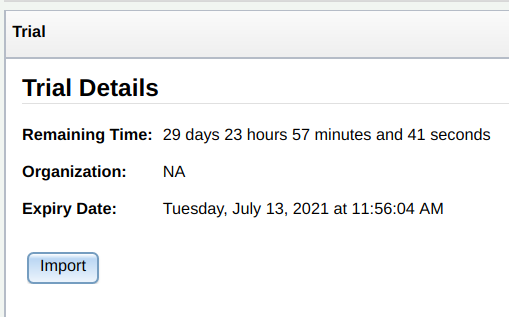
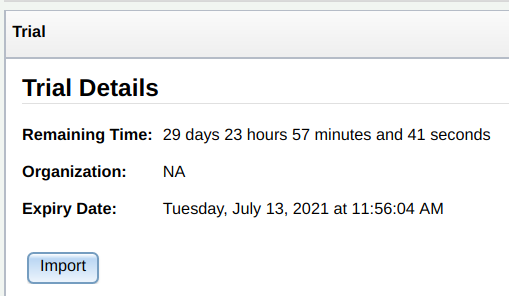
New article, draft.

diff --git a/drafts/2021-06-13-certificados-criptograficos.md b/drafts/2021-06-13-certificados-criptograficos.md
@@ -2,7 +2,7 @@
 title: Certificados criptográficos. Hecho a mano.
 layout: post
 assets: /assets/2021/06/certificados-criptograficos
-image: /assets/2021/06/certificados-criptograficos/img/trialdays_30.png
+image: /assets/2021/06/certificados-criptograficos/img/trialdays.png
 featured: false
 tags:
   - Binario
@@ -142,7 +142,7 @@ Lo primero que haremos será aprender a validar la firma a mano.
 
 ## Validar la firma a mano
 
-¿Qué es una firma electrónica? Una firma es un **hash cifrado** con una clave privada. Sólo eso. Claro que el hash no va desnudo sino dentro de una estructura ASN.1 indicando de qué tipo es. Y la estructura tampoco se cifra sola sino acompañada de un padding. Ahora lo veremos.
+¿Qué es una firma electrónica? Una firma es un **hash, cifrado** con una clave privada. Sólo eso. Claro que el hash no va desnudo sino dentro de una estructura ASN.1 indicando de qué tipo es. Y la estructura tampoco se cifra sola sino acompañada de un padding. Ahora lo veremos.
 
 Convertimos el certificado de Base64 (PEM) a binario (DER) para trabajar más fácilmente.
 
@@ -211,7 +211,7 @@ Se cifra una estructura ASN.1 que se interpreta así:
 
 30 21     <- secuencia con logitud 0x21 bytes
   30 09   <- primer campo: secuencia de 9 bytes
-    06 05 <- primer campo: identificador IOD, 5 bytes
+    06 05 <- primer campo: identificador OID, 5 bytes
       2b 0e 03 02 1a  <- OID de SHA1
     05 00 <- segundo campo: null de tamaño 0
   04 14   <- segundo campo: cadena de octetos, 20 bytes
@@ -610,7 +610,7 @@ OpenSSL es una herramienta muy versátil y compleja. Puedes pasar años usando a
 
 ## Enlaces
 
-Algunos fallos de OpenSSL con repercusión masiva:
+Algunos fallos de OpenSSL con repercusión masiva en su día:
 
 - [Anatomy of a “goto fail” – Apple’s SSL bug explained, plus an unofficial patch for OS X! - sophos.com](https://nakedsecurity.sophos.com/2014/02/24/anatomy-of-a-goto-fail-apples-ssl-bug-explained-plus-an-unofficial-patch/)
 - [Apple y "goto fail", un fallo de seguridad en SSL/TLS - genbeta.com](https://www.genbeta.com/seguridad/apple-y-goto-fail-un-fallo-de-seguridad-en-ssl-tls-y-su-posible-relacion-con-la-nsa)
@@ -618,16 +618,18 @@ Algunos fallos de OpenSSL con repercusión masiva:
 - [openssl predictable random number generator - Debian Security Advisory](https://www.debian.org/security/2008/dsa-1571)
 - [Alternative chains certificate forgery (CVE-2015-1793) - OpenSSL Security Advisory (2015)](https://www.openssl.org/news/secadv/20150709.txt)
 
-Para saber más:
+Para ampliar información:
 
 - [Internet Privacy Enhanced Mail - Stephen T. Kent](https://web2.utc.edu/~djy471/CPSC4670/17-privacy-email.pdf)
 - [Privacy-Enhanced Mail - Wikipedia](https://en.wikipedia.org/wiki/Privacy-Enhanced_Mail)
 - [Teorema chino del resto - Wikipedia](https://es.wikipedia.org/wiki/Teorema_chino_del_resto)
+- [PKCS #1: RSA Encryption Version 1.5 - IETF 1998](https://datatracker.ietf.org/doc/html/rfc2313)
+- [ASN.1 JavaScript decoder](https://lapo.it/asn1js/)
+- [X.509 - Wikipedia](https://es.wikipedia.org/wiki/X.509)
 
 Otros artículos del blog relacionados:
 
 - [Electrónica y Ciencia - Prácticas con TPM virtual]({{site.baseurl}}{% post_url 2020-09-02-practicas-tpm-virtual %})
 - [Electrónica y Ciencia - Pirateando software Ninja]({{site.baseurl}}{% post_url 2021-05-25-pirateando-software-ninja %})
-
 
 
